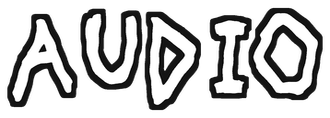
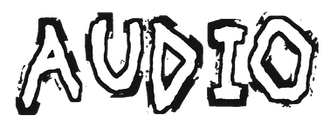
Fix sidebar overflow and AUDIO/GRAPHICS/MOBILE wordmark texture mismatch
Two separate bugs a real screenshot caught:

- The Settings sidebar's VBox math overflows the console's actual 1440x1080
  UI canvas: 6 buttons x 111 + 5 gaps x 20 + 338 top margin = 1104, 24px
  past the bottom edge - MOBILE was rendering right at/past the TV screen's
  boundary. Separation 20 -> 10 brings it to 1054, with headroom.

- AUDIO/GRAPHICS/MOBILE's wordmark outlines were a uniform-thickness
  MaxFilter dilation, which reads as visibly heavier/blockier than the real
  scanned originals (GAMEPLAY/MISC/VISUALS) even at a matching cap height -
  a variable stroke simply has less solid ink. make_wordmark.py now blends
  a light and a heavy dilation through low-frequency noise so the stroke
  drifts in width, and perturbs the final threshold with high-frequency
  noise for a jagged, not-antialiased edge - matching the technique
  marker.py already uses for the icons. Regenerated all three at the same
  cap height/max width as before (95px, 330px), so only the texture
  changed, not the sizing already fixed in the prior pass.

diff --git a/tools/console_art/make_wordmark.py b/tools/console_art/make_wordmark.py
@@ -1,8 +1,12 @@
-"""Same lettering pass that produced mobile.png, but auto-sizing the canvas
-to a target cap height instead of a fixed one. audio.png (70px caps) and
-graphics.png (56px) were drawn much smaller than gameplay (101), misc (98)
-and visuals (92), which is a large part of why the sidebar column read as
-uneven."""
+"""Auto-sizes the canvas to a target cap height, like the previous pass, but
+replaces the uniform MaxFilter dilation with the same kind of roughness
+marker.py already uses for the icons: stroke width drifts (low-frequency
+noise blends a thin and a thick dilation) and the edge is perturbed by
+higher-frequency noise before thresholding, instead of being cleanly
+antialiased. Without this, AUDIO/GRAPHICS/MOBILE came out as smooth, evenly
+thick "bubble letters" next to GAMEPLAY/MISC/VISUALS' actual scanned-marker
+originals - visually heavier and blockier despite a similar cap height,
+because a uniform stroke reads as more solid ink than a variable one."""
 from PIL import Image, ImageDraw, ImageFont, ImageFilter
 import numpy as np, sys
 
@@ -15,6 +19,26 @@ OUT, TEXT, TARGET = sys.argv[1], sys.argv[2], int(sys.argv[3])
 MAXW = int(sys.argv[4]) if len(sys.argv) > 4 else 0
 SS = 4
 PAD = 8
+
+
+def noise2(h, w, seed, cell, octaves=1):
+    """Smooth 2-D value noise: a coarse random grid resized up, a couple of
+    octaves summed. No scipy/cv2 in this environment, so this stands in for
+    the Perlin-ish field a real ink-roughness pass would use."""
+    rng = np.random.default_rng(seed)
+    out = np.zeros((h, w), np.float32)
+    amp = 1.0
+    for o in range(octaves):
+        c = max(2, int(cell / (2 ** o)))
+        gh, gw = h // c + 3, w // c + 3
+        grid = rng.uniform(-1, 1, (gh, gw)).astype(np.float32)
+        small = Image.fromarray(((grid + 1) * 127.5).astype(np.uint8))
+        big = small.resize((w, h), Image.BICUBIC)
+        out += (np.array(big, np.float32) / 127.5 - 1.0) * amp
+        amp *= 0.5
+    out /= out.std() if out.std() > 0 else 1.0
+    return out
+
 
 f0 = ImageFont.truetype(FONT, 400)
 metrics = []
@@ -53,9 +77,30 @@ sx = np.clip(xx + fx, 0, w - 1).astype(np.int32)
 sy = np.clip(yy + fy, 0, h - 1).astype(np.int32)
 layer = Image.fromarray(a[sy, sx].astype(np.uint8))
 
-outline = layer.filter(ImageFilter.MaxFilter(int(10 * SS) | 1))
-outline = outline.filter(ImageFilter.GaussianBlur(0.6 * SS)).point(lambda v: 255 if v > 96 else 0)
-fill = layer.filter(ImageFilter.GaussianBlur(0.35 * SS)).point(lambda v: 255 if v > 128 else 0)
+# Variable-width stroke: blend a light and a heavy dilation by a
+# low-frequency noise mask, so the ink is thick in some stretches and thin
+# in others instead of a uniform ring (compare a scanned marker letter to a
+# vector outline - the difference is entirely in this unevenness).
+small_dil = np.array(layer.filter(ImageFilter.MaxFilter(int(7 * SS) | 1)), np.float32)
+big_dil = np.array(layer.filter(ImageFilter.MaxFilter(int(15 * SS) | 1)), np.float32)
+width_mix = noise2(h, w, 11, 26 * SS, octaves=2) * 0.5 + 0.5
+dilated = small_dil * (1 - width_mix) + big_dil * width_mix
+
+# Jagged edge: perturb the threshold with higher-frequency noise so the
+# boundary crosses at different points instead of a smooth antialiased
+# curve - a torn/scanned look rather than clean vector art.
+edge_noise = noise2(h, w, 23, 3 * SS, octaves=2) * 46
+outline = np.where(dilated + edge_noise > 118, 255, 0).astype(np.uint8)
+outline = Image.fromarray(outline).filter(ImageFilter.GaussianBlur(0.35 * SS))
+outline = outline.point(lambda v: 255 if v > 110 else 0)
+# Keeps the jaggedness at the true edge; without this gate the same noise
+# also lit up stray flecks out in the empty background.
+gate = np.array(layer.filter(ImageFilter.MaxFilter(int(19 * SS) | 1)), np.float32) > 10
+outline = Image.fromarray(np.array(outline) * gate.astype(np.uint8))
+
+fill_noise = noise2(h, w, 41, 3 * SS, octaves=2) * 46
+fill_base = np.array(layer.filter(ImageFilter.GaussianBlur(0.35 * SS)), np.float32)
+fill = Image.fromarray(np.where(fill_base + fill_noise > 128, 255, 0).astype(np.uint8))
 
 img = Image.new("RGBA", (w, h), (0, 0, 0, 0))
 img.paste((20, 20, 20, 255), (0, 0), outline)

diff --git a/CLAUDE.md b/CLAUDE.md
@@ -650,10 +650,25 @@ Touch gameplay rules:
 - `disable_inputs` / `should_autoplay()` block touch input exactly like the
   engine controller does; physical keys still work in Touch mode.
 
-Sidebar note: the settings sidebar's VBox separation is 20 (was 84) so all
-six entries fit the 640x480 console viewport - measured, at 84 the 5th
-button (Misc) was already mostly off-screen and a 6th would have been
-unreachable.
+Sidebar note: the settings sidebar's VBox separation is 10 (was 84, then
+20). The console's own UI canvas is 1440x1080 (not the 640x480 the
+`ConsoleSubViewport` finally renders it into - that mismatch is what made
+this easy to get wrong twice). At 84 the 5th button (Misc) was already
+mostly off-screen and a 6th would have been unreachable; at 20 - the fix at
+the time - the math still wasn't checked against the real 1080 bound: 6
+buttons x 111 + 5 gaps x 20 + the 338 top margin lands at y=1104, 24px past
+the edge, which is exactly the "MOBILE almost runs off the TV screen" the
+next session's screenshot caught. 10 lands at 1054, with headroom to spare.
+
+The AUDIO/GRAPHICS/MOBILE wordmarks (`tools/console_art/make_wordmark.py`)
+had a second, separate bug: their outline was a uniform-thickness
+`MaxFilter` dilation, which reads as visibly heavier and blockier than the
+real scanned originals (GAMEPLAY/MISC/VISUALS) even at a matching cap
+height - a variable stroke simply has less solid ink overall. Fixed by
+blending a light and a heavy dilation through low-frequency noise (stroke
+width drifts) and perturbing the final threshold with high-frequency noise
+(a jagged, not-antialiased edge) - see the tool's own docstring and
+`tools/console_art/README.md`.
 
 ### Four bugs a review of the Touch mode caught
 

diff --git a/tools/console_art/README.md b/tools/console_art/README.md
@@ -19,3 +19,11 @@ Two constraints the sidebar imposes, both learned the hard way:
 - Every icon is normalised in `console.tscn` so its longest side is 146px.
   Art that does not fill its own canvas therefore renders smaller than
   its neighbours - keep the ink at ~95%+ of the canvas.
+- A uniform-thickness outline reads as visibly heavier/blockier than the
+  scanned originals (`gameplay.png`, `misc.png`, `visuals.png`) even at the
+  same cap height, because a variable stroke has less solid ink overall.
+  `make_wordmark.py` blends a light and a heavy dilation by low-frequency
+  noise and perturbs the threshold with high-frequency noise so the stroke
+  drifts in width and the edge is jagged rather than antialiased - this is
+  what made the first AUDIO/GRAPHICS/MOBILE pass (plain `MaxFilter`
+  dilation) look like clean vector art next to the real scans.
